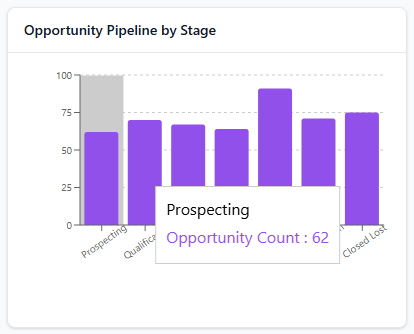
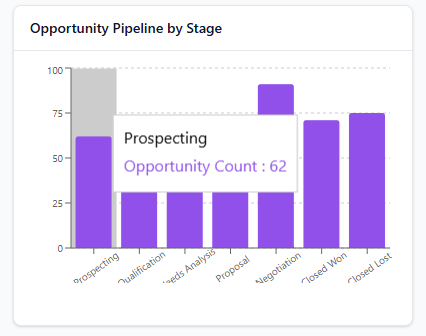
Fix clipped chart labels: increase bottom margin 5→20

Changed region(s): [[0.1159, 0.1796, 0.9275, 0.8683], [0.058, 0.0599, 0.5217, 0.1198]]

diff --git a/frontend/src/pages/Home.tsx b/frontend/src/pages/Home.tsx
@@ -93,7 +93,7 @@ export default function Home() {
           </div>
           <div className="p-3">
             <ResponsiveContainer width="100%" height={220}>
-              <BarChart data={pipelineData} margin={{ top: 5, right: 10, left: -15, bottom: 5 }}>
+              <BarChart data={pipelineData} margin={{ top: 5, right: 10, left: -15, bottom: 20 }}>
                 <CartesianGrid strokeDasharray="3 3" vertical={false} />
                 <XAxis dataKey="stage" angle={-35} textAnchor="end" interval={0} tick={{ fontSize: 10, dy: 10 }} />
                 <YAxis tick={{ fontSize: 10 }} allowDecimals={false} />
@@ -111,7 +111,7 @@ export default function Home() {
           </div>
           <div className="p-3">
             <ResponsiveContainer width="100%" height={220}>
-              <BarChart data={pipelineData} margin={{ top: 5, right: 10, left: -5, bottom: 5 }}>
+              <BarChart data={pipelineData} margin={{ top: 5, right: 10, left: -5, bottom: 20 }}>
                 <CartesianGrid strokeDasharray="3 3" vertical={false} />
                 <XAxis dataKey="stage" angle={-35} textAnchor="end" interval={0} tick={{ fontSize: 10, dy: 10 }} />
                 <YAxis tick={{ fontSize: 10 }} tickFormatter={(v) => v >= 1000000 ? `$${(v / 1000000).toFixed(0)}M` : v >= 1000 ? `$${(v / 1000).toFixed(0)}K` : `$${v}`} />
